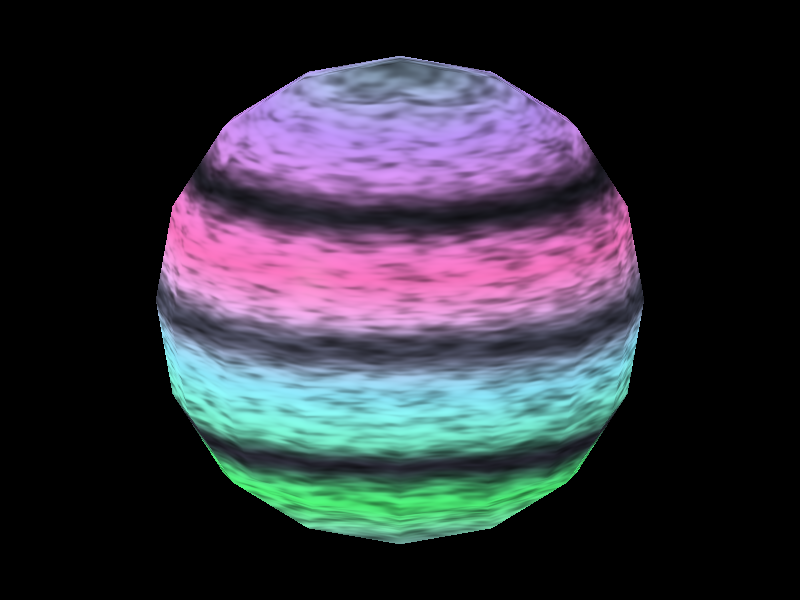
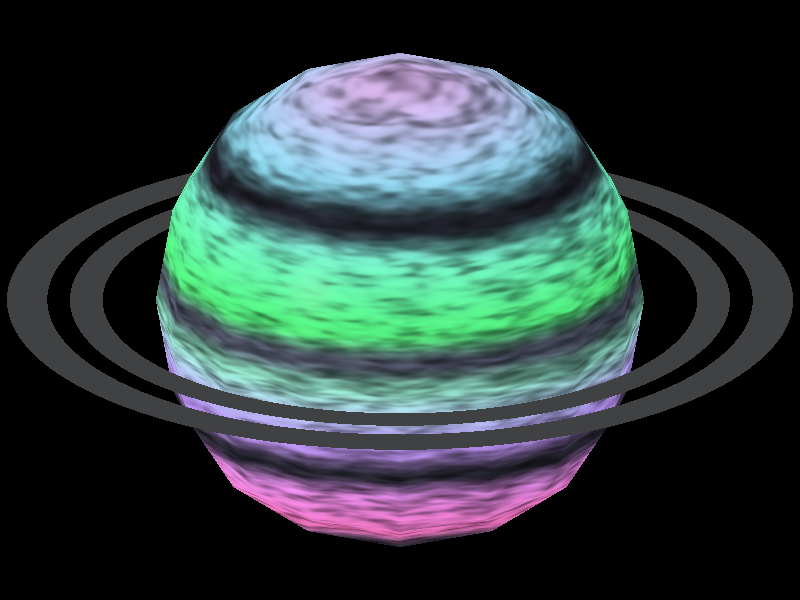
feat: update README with details on celestial bodies and accessories; add new images

diff --git a/README.md b/README.md
@@ -2,9 +2,10 @@
 
 Rasterizador por software escrito en Rust: todo se dibuja en CPU. La misma
 esfera (`assets/models/sphere.obj`, 192 triángulos) se pinta con distintos
-fragment shaders, y cada shader es un cuerpo celeste. No se usan texturas ni
-se modifican los vértices: todo el aspecto sale de funciones matemáticas y
-ruido.
+fragment shaders, y cada shader es un cuerpo celeste. El planeta rocoso tiene
+dos lunas que giran y orbitan; el gigante gaseoso tiene dos anillos blancos
+concentricos en el ecuador. No se usan texturas: el aspecto de las superficies
+sale de funciones matemáticas y ruido.
 
 > El laboratorio anterior (la nave, los rellenos y sus mediciones) está en la
 > rama `feat/obj-rendering`.
@@ -57,6 +58,9 @@ vértices → vertex shader → ensamblaje → rasterización → z-buffer → f
   núcleos (`Framebuffer::shade`).
 - **Fragment shader**: arma un `Frag` con todo lo que se sabe del punto y
   llama al shader elegido con Tab.
+- **Accesorios**: las lunas y los anillos son mallas adicionales que pasan
+  por la misma rasterización y prueba de profundidad del planeta; sus
+  transformaciones dependen del tiempo de la escena.
 
 La esfera no gira: lo que se mueve es la cámara. El sol queda fijo respecto
 a la esfera, así que al orbitar se ven el lado de día y el de noche. La
